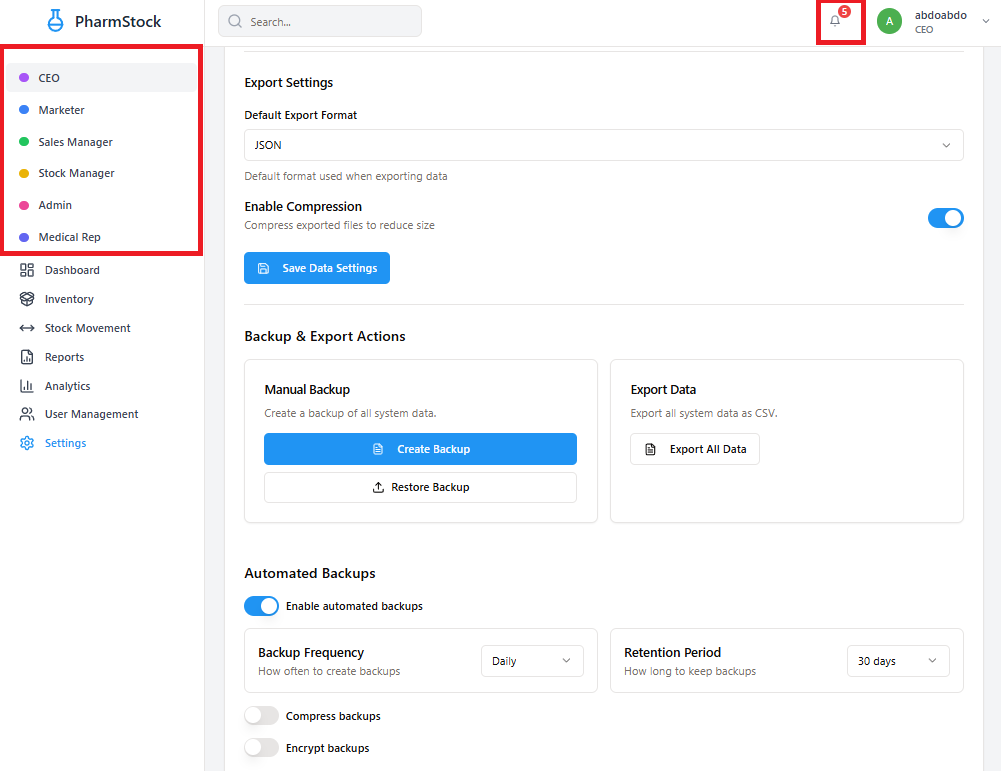
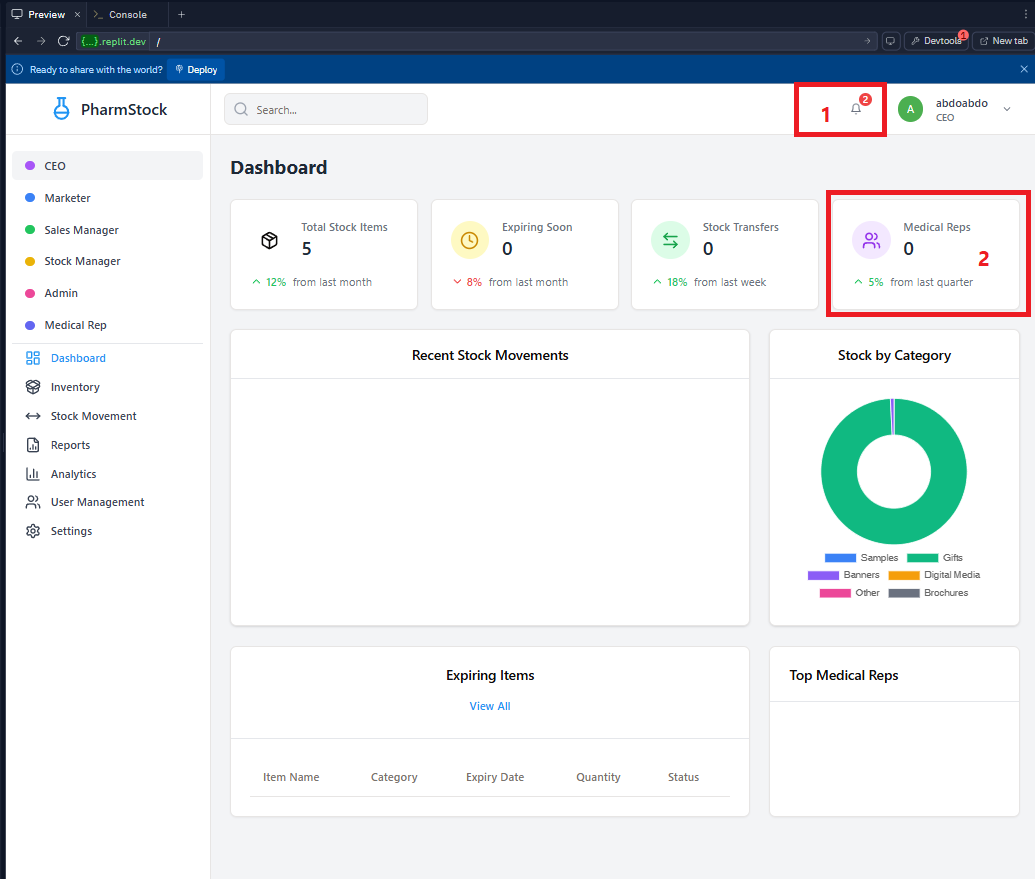
Enhance the platform by displaying notification details and metrics
Implement notification details on click and replace medical rep metric with inventory value on the dashboard.

Replit-Commit-Author: Agent
Replit-Commit-Session-Id: c9ad3298-44e9-438e-9a56-50231984202b
Replit-Commit-Screenshot-Url: https://storage.googleapis.com/screenshot-production-us-central1/df3d85a6-7b10-4504-a021-2b48168fc776/50204200-66d2-48cb-9d7f-e826f83c99f4.jpg

diff --git a/client/src/components/layout/header.tsx b/client/src/components/layout/header.tsx
@@ -1,6 +1,6 @@
 import { useState } from "react";
 import { useAuth } from "@/hooks/use-auth";
-import { Bell, Search, ChevronDown } from "lucide-react";
+import { Bell, Search, ChevronDown, ExternalLink, Package, AlertTriangle, Info } from "lucide-react";
 import { Button } from "@/components/ui/button";
 import { Avatar, AvatarFallback, AvatarImage } from "@/components/ui/avatar";
 import { Input } from "@/components/ui/input";
@@ -11,17 +11,51 @@ import {
   DropdownMenuSeparator,
   DropdownMenuTrigger,
 } from "@/components/ui/dropdown-menu";
-import { getRoleName, getPlaceholderAvatar } from "@/lib/utils";
+import { getRoleName, getPlaceholderAvatar, formatDate } from "@/lib/utils";
 import { Link } from "wouter";
+import { ScrollArea } from "@/components/ui/scroll-area";
 
 interface HeaderProps {
   onSearch?: (query: string) => void;
 }
 
+// Mock notification data structure - in a real app, this would come from the API
+interface Notification {
+  id: number;
+  title: string;
+  message: string;
+  date: Date;
+  read: boolean;
+  type: 'info' | 'warning' | 'alert' | 'stock';
+  link?: string;
+}
+
 export function Header({ onSearch }: HeaderProps) {
   const { user, logoutMutation } = useAuth();
   const [searchQuery, setSearchQuery] = useState("");
-  const [notificationCount] = useState(2); // Set notification count to display badge
+  const [notifications, setNotifications] = useState<Notification[]>([
+    {
+      id: 1,
+      title: "Low Stock Alert",
+      message: "Promotional brochures are running low (5 items remaining)",
+      date: new Date(Date.now() - 1000 * 60 * 30), // 30 minutes ago
+      read: false,
+      type: 'warning',
+      link: '/inventory'
+    },
+    {
+      id: 2,
+      title: "Expiring Items",
+      message: "3 items are expiring within the next week",
+      date: new Date(Date.now() - 1000 * 60 * 60 * 2), // 2 hours ago
+      read: false,
+      type: 'alert',
+      link: '/stock-movement'
+    }
+  ]);
+  
+  // Calculate unread notification count
+  const notificationCount = notifications.filter(n => !n.read).length;
 
   const handleSearchChange = (e: React.ChangeEvent<HTMLInputElement>) => {
     const value = e.target.value;
@@ -51,20 +85,116 @@ export function Header({ onSearch }: HeaderProps) {
       </div>
 
       <div className="flex items-center space-x-4">
-        <div className="relative">
-          <Button
-            variant="ghost"
-            size="icon"
-            className="p-1 text-gray-500 rounded-full hover:bg-gray-100 focus:outline-none"
-          >
-            <Bell className="w-6 h-6" />
-            {notificationCount > 0 && (
-              <span className="absolute top-0 right-0 flex items-center justify-center w-4 h-4 text-xs text-white bg-red-500 rounded-full">
-                {notificationCount}
-              </span>
-            )}
-          </Button>
-        </div>
+        <DropdownMenu>
+          <DropdownMenuTrigger asChild>
+            <Button
+              variant="ghost"
+              size="icon"
+              className="p-1 text-gray-500 rounded-full hover:bg-gray-100 focus:outline-none"
+            >
+              <Bell className="w-6 h-6" />
+              {notificationCount > 0 && (
+                <span className="absolute top-0 right-0 flex items-center justify-center w-4 h-4 text-xs text-white bg-red-500 rounded-full">
+                  {notificationCount}
+                </span>
+              )}
+            </Button>
+          </DropdownMenuTrigger>
+          <DropdownMenuContent align="end" className="w-80">
+            <div className="flex items-center justify-between p-2 border-b">
+              <div className="text-sm font-medium">Notifications</div>
+              {notificationCount > 0 && (
+                <Button 
+                  variant="ghost" 
+                  size="sm"
+                  className="text-xs"
+                  onClick={() => {
+                    // Mark all as read
+                    setNotifications(prev => 
+                      prev.map(n => ({ ...n, read: true }))
+                    );
+                  }}
+                >
+                  Mark all as read
+                </Button>
+              )}
+            </div>
+            
+            <ScrollArea className="h-[300px]">
+              {notifications.length === 0 ? (
+                <div className="flex flex-col items-center justify-center p-4 text-center">
+                  <Info className="text-gray-400 mb-2 h-10 w-10" />
+                  <div className="text-sm text-gray-500">No notifications</div>
+                </div>
+              ) : (
+                notifications.map(notification => {
+                  // Select icon based on notification type
+                  let Icon = Info;
+                  let bgColor = 'bg-blue-50';
+                  let iconColor = 'text-blue-500';
+                  
+                  switch (notification.type) {
+                    case 'warning':
+                      Icon = AlertTriangle;
+                      bgColor = 'bg-yellow-50';
+                      iconColor = 'text-yellow-500';
+                      break;
+                    case 'alert':
+                      Icon = AlertTriangle;
+                      bgColor = 'bg-red-50';
+                      iconColor = 'text-red-500';
+                      break;
+                    case 'stock':
+                      Icon = Package;
+                      bgColor = 'bg-green-50';
+                      iconColor = 'text-green-500';
+                      break;
+                  }
+                  
+                  return (
+                    <div 
+                      key={notification.id}
+                      className={`flex items-start p-3 border-b hover:bg-gray-50 cursor-pointer ${notification.read ? '' : 'bg-blue-50'}`}
+                      onClick={() => {
+                        // Mark as read
+                        setNotifications(prev => 
+                          prev.map(n => n.id === notification.id ? { ...n, read: true } : n)
+                        );
+                        
+                        // Redirect if link exists
+                        if (notification.link) {
+                          window.location.href = notification.link;
+                        }
+                      }}
+                    >
+                      <div className={`flex-shrink-0 rounded-full p-2 mr-3 ${bgColor}`}>
+                        <Icon className={`h-4 w-4 ${iconColor}`} />
+                      </div>
+                      <div className="flex-1 min-w-0">
+                        <div className="text-sm font-medium">{notification.title}</div>
+                        <div className="text-xs text-gray-500 mt-1">{notification.message}</div>
+                        <div className="text-xs text-gray-400 mt-1">
+                          {formatDate(notification.date)}
+                        </div>
+                      </div>
+                      {notification.link && (
+                        <ExternalLink className="h-4 w-4 text-gray-400 flex-shrink-0 self-center ml-2" />
+                      )}
+                    </div>
+                  );
+                })
+              )}
+            </ScrollArea>
+            
+            <div className="p-2 text-center border-t">
+              <Link href="/settings?tab=notifications">
+                <Button variant="link" size="sm" className="text-xs">
+                  View all notifications
+                </Button>
+              </Link>
+            </div>
+          </DropdownMenuContent>
+        </DropdownMenu>
 
         <DropdownMenu>
           <DropdownMenuTrigger asChild>

diff --git a/client/src/pages/dashboard-page.tsx b/client/src/pages/dashboard-page.tsx
@@ -16,7 +16,10 @@ import {
   Clock, 
   ArrowLeftRight, 
   Users,
-  ChevronRight
+  ChevronRight,
+  Layers,
+  ShoppingCart,
+  TrendingUp
 } from "lucide-react";
 import Chart from 'chart.js/auto';
 import 'chartjs-adapter-date-fns';
@@ -57,6 +60,16 @@ export default function DashboardPage() {
   
   const stockTransfersCount = movements.length;
   
+  // Calculate total stock value - estimate based on quantity
+  const totalStockValue = stockItems.reduce((sum, item) => {
+    // Estimate value based on quantity (assuming $10 per item)
+    return sum + (item.quantity * 10);
+  }, 0);
+  
+  // Format the value in thousands
+  const formattedStockValue = (totalStockValue / 1000).toFixed(1) + "k";
+  
+  // Count of medical reps (will be needed for the table section)
   const medicalRepsCount = users.filter(u => u.role === 'medicalRep').length;
 
   // Calculate category distribution for the chart
@@ -208,11 +221,11 @@ export default function DashboardPage() {
         />
 
         <StatsCard
-          icon={Users}
-          title="Medical Reps"
-          value={medicalRepsCount}
-          change={{ value: "5%", isPositive: true, text: "from last quarter" }}
-          iconColor="bg-purple-100 text-purple-600"
+          icon={TrendingUp}
+          title="Inventory Value"
+          value={`$${formattedStockValue}`}
+          change={{ value: "7%", isPositive: true, text: "from last month" }}
+          iconColor="bg-emerald-100 text-emerald-600"
         />
       </div>
 
